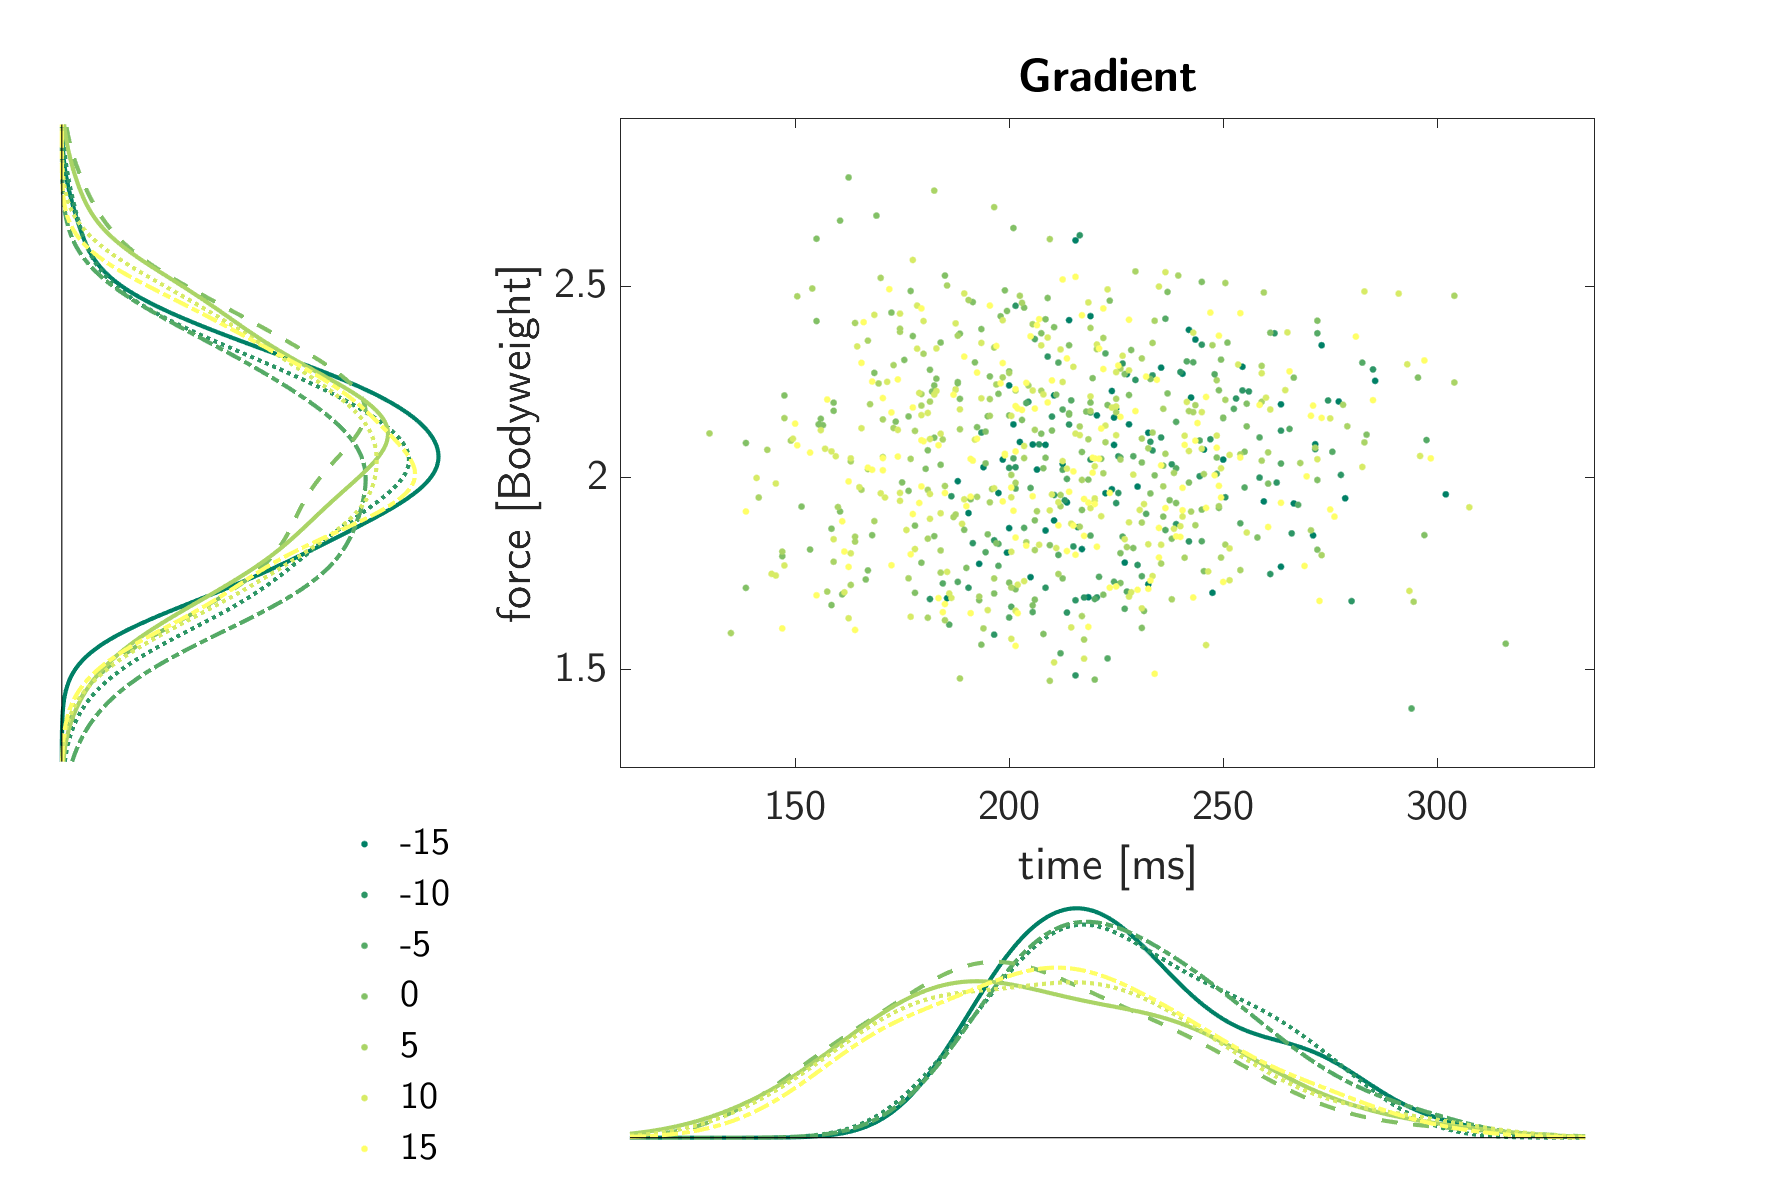
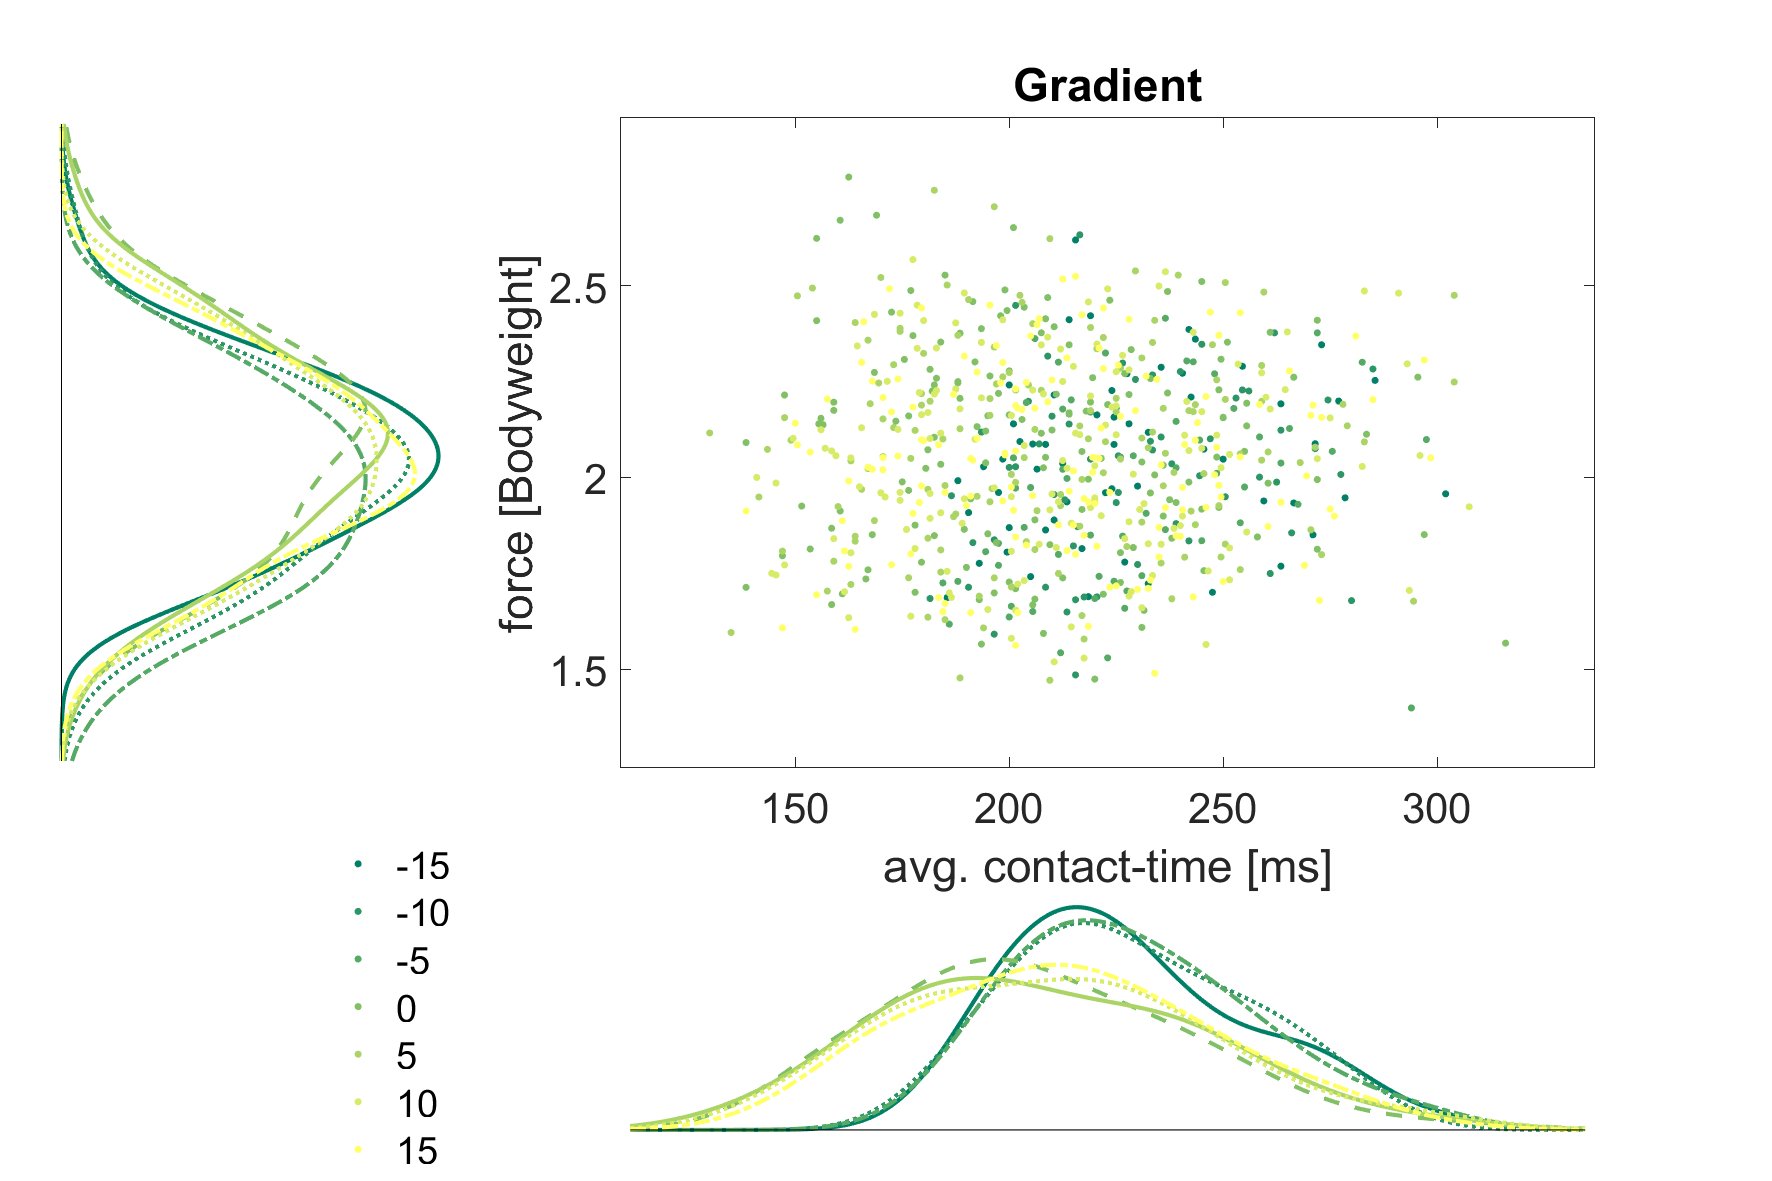
add contact time to regresison

diff --git a/05_scripts/ana01_pilot.m b/05_scripts/ana01_pilot.m
@@ -19,7 +19,7 @@ set(0,'DefaultAxesFontName', 'CMU Sans Serif')
 set(0,'DefaultTextFontname', 'CMU Sans Serif')
 
 % for plot
-toplot = 0;
+toplot = 1;
 
 %% Set MAIN path  and load data
 MAIN = 'C:\Users\Sara\Desktop\NG_kiel\moonwalk_CH\';
@@ -34,11 +34,11 @@ idx_moon= find(contains({list.name},'raw_data'),1); % find the raw flesh
 dat_moon = readtable([PATHIN_data list(idx_moon).name],'Sheet','Sheet1');
 
 %% Disttribution params
-vars_idp = {'AlterG_BW','Speed','Gradient'};
+vars_idp = {'AlterG BW','Speed','Gradient'};
 cb_names = {'cool','spring','summer'};
 
 for i = 1:numel(vars_idp)
-   fact_idp(i).cat = unique(dat_moon{:,strcmp(dat_moon.Properties.VariableNames,vars_idp{i})});
+   fact_idp(i).cat = unique(dat_moon{:,startsWith(dat_moon.Properties.VariableNames,vars_idp{i})});
    fact_idp(i).size = length(fact_idp(i).cat);
    fact_idp(i).name = vars_idp{i};
     
@@ -62,7 +62,7 @@ for i = 1:numel(vars_idp)
     scatterhist(time,force,'Group',dat_moon{:,strcmp(dat_moon.Properties.VariableNames,vars_idp{i})}...
         ,'Color',c_map(c_idx,:),'Kernel','on','Marker','.','MarkerSize',10)
     title(vars_idp{i})
-    xlabel 'time [ms]'
+    xlabel 'avg. contact-time [ms]'
     ylabel 'force [Bodyweight]'
     legend boxoff
     save_fig(gcf,PATHOUT_data,vars_idp{i},'fontsize',20);
